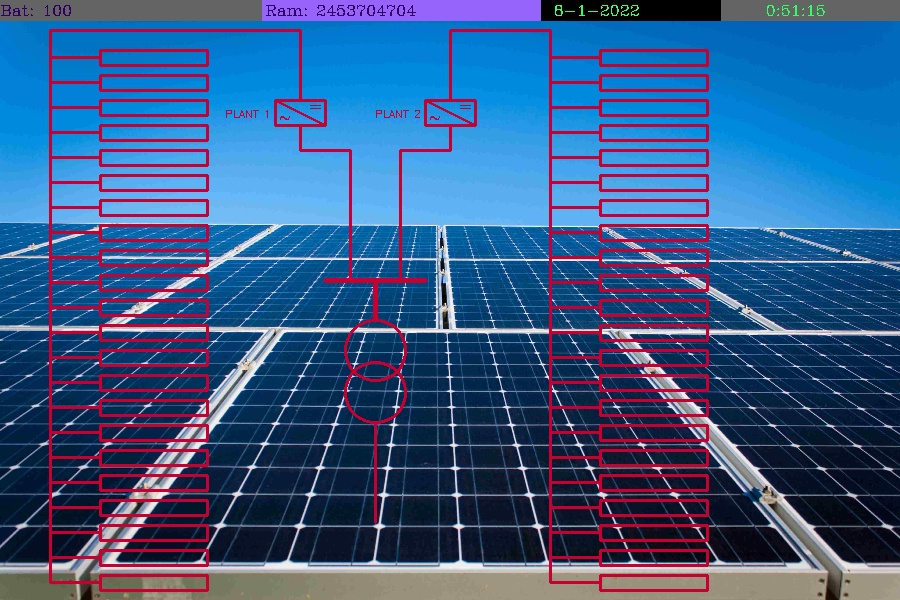
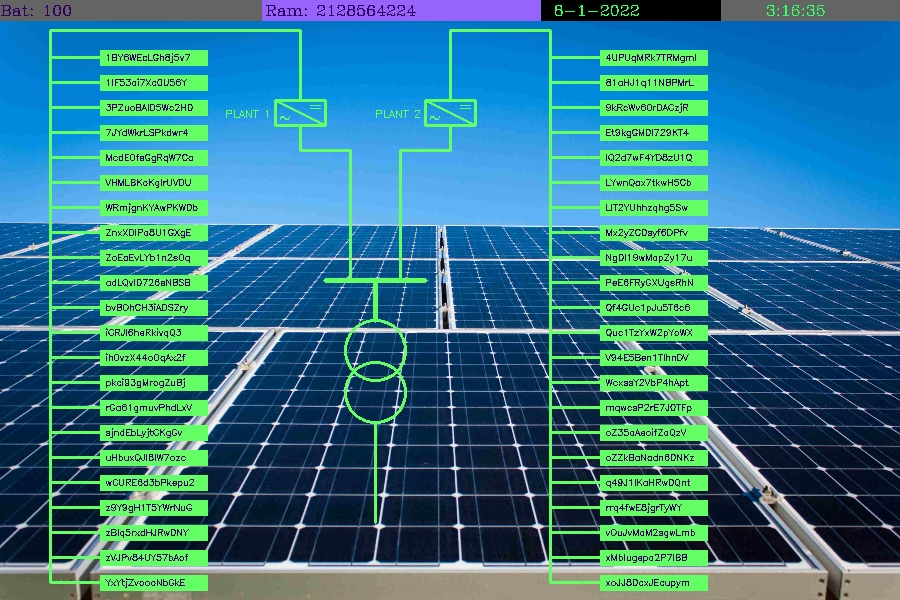
V1.2- Load Source Keys solar plant 1 and solar plant 2. Show script with source keys solar plant

diff --git a/SolarEnergyPowerPlant.py b/SolarEnergyPowerPlant.py
@@ -3,12 +3,18 @@ import numpy as np
 import pickle
 import os
 import PySimpleGUI as sg
-from Function_BN  import script,InverterAcDc,Transformer,Header
+from Function_BN  import script,InverterAcDc,Transformer,Header,sourceKey
+from SolarPlant import SolarPV
+solar=SolarPV()
+
+p1_source_key,p2_source_key=solar.main()
 
 he=Header()
 width,height=107,15
 nb=900
-colorR=(50,0,200)
+colorR=(100,255,100)
+colorB=(100,0,50)
+
 try:
     with open('Solar_Plant','rb') as f:
         posList=pickle.load(f)
@@ -29,21 +35,21 @@ def mouseClick(events,x,y,flags,params):
 auto= script()
 
 if auto==1:
-    posList=[]  
+    posList1=[]
+    posList2=[]  
     y=50
     for i in range(22):
         if i!=0:
             y=y+height+10
-        posList.append((100,y))
-        posList.append((600,y))
+        posList1.append((100,y))
+        posList2.append((600,y))
     img=cv2.imread("workspace.jpg")
     scale=img.shape[0]/img.shape[1]
     img = cv2.resize(img,(nb,int(nb*scale)))
+    
     he.leftH(image=img)
-
-    for pos in posList:
-        cv2.rectangle(img,pos,(pos[0]+width,pos[1]+height),colorR,2)
-        cv2.line(img,(pos[0],pos[1]+int(height/2)),(pos[0]-50,pos[1]+int(height/2)),colorR,2)
+    img=sourceKey(posList1,p1_source_key,img,colorR,colorB,width,height)
+    img=sourceKey(posList2,p2_source_key,img,colorR,colorB,width,height)
     Inverter=InverterAcDc(img=img,colorInv=colorR,fpoint=(275,100))
     text1="PLANT 1"
     Inverter.draw(text1)
@@ -71,9 +77,6 @@ if auto==1:
     transf.draw(img=img,point=(375,320),radius=rad,color=colorR)
     cv2.line(img,(375,int(320+(3.4*rad))),(375,int(320+(3.4*rad)+100)),colorR,2)
 
-
-
-
     Inverter.draw(text2)
     cv2.imshow("Image",img)
     while True:
@@ -94,8 +97,11 @@ else:
         if key == 27 or key==ord('q'): 
             break
 print(posList)
+print(p1_source_key)
+print(p2_source_key)
+
 folder = sg.popup_get_folder('File Name','File Search')   
 os.chdir(folder)
 cv2.imwrite("Solar_Plant.jpg", img)
-print(posList)
+
 cv2.destroyAllWindows()

diff --git a/SolarPlant.py b/SolarPlant.py
@@ -1,0 +1,41 @@
+import pandas as pd
+import numpy as np
+import matplotlib as mpl
+import matplotlib.pyplot as plt
+import seaborn as sns
+import missingno as msno
+
+class SolarPV:
+    def __init__(self):
+        self.P1_G=pd.read_csv(r"C:\Datasets-base\Datasets\Solar_power_generation_data\Plant_1_Generation_Data.csv")
+        self.P2_G=pd.read_csv(r"C:\Datasets-base\Datasets\Solar_power_generation_data\Plant_2_Generation_Data.csv")
+        self.P1_WSn=pd.read_csv(r"C:\Datasets-base\Datasets\Solar_power_generation_data\Plant_1_Weather_Sensor_Data.csv")
+        self.P2_WSn=pd.read_csv(r"C:\Datasets-base\Datasets\Solar_power_generation_data\Plant_2_Weather_Sensor_Data.csv")
+        self.Plant_df=[self.P1_G,self.P2_G,self.P1_WSn,self.P2_WSn]      #list with plant dataframes
+
+    def CheckNullValues(self,Dataset):
+        Null = Dataset.isnull().sum()
+        Na = Dataset.isna().sum()
+        if Null.sum()==0 and Na.sum()==0:
+            return 1
+        else:
+            return 0 
+    
+
+    
+    def main(self):
+        for idx, df in enumerate(self.Plant_df):
+            ctrl_NA=self.CheckNullValues(df) 
+            if ctrl_NA==0:
+                print('........Valores invalidos......')
+            if idx==0:
+                df['DATE_TIME']=pd.to_datetime(df['DATE_TIME'], format='%d-%m-%Y %H:%M')
+            else:
+                df['DATE_TIME']=pd.to_datetime(df['DATE_TIME'], format='%Y-%m-%d %H:%M:%S')
+            df.sort_values(by=['DATE_TIME'])    #ordenar dados
+        source_key_p1=self.Plant_df[0]['SOURCE_KEY'].unique()
+        source_key_p2=self.Plant_df[1]['SOURCE_KEY'].unique()
+        return source_key_p1, source_key_p2
+    
+ 
+    

diff --git a/Function_BN.py b/Function_BN.py
@@ -4,8 +4,6 @@ import datetime
 import pytz
 import psutil
 
-
-
 def script():
     sg.theme('DarkGrey7')
     menu_def = [['&File', ['E&xit',]],
@@ -24,6 +22,13 @@ def script():
         elif values['-auto-']== True:
             auto=1 
     return auto
+
+def sourceKey(posList,source_key,img,colorR,colorB,width,height):
+    for idx,pos in enumerate(posList):
+        cv2.rectangle(img,pos,(pos[0]+width,pos[1]+height),colorR,cv2.FILLED)
+        cv2.line(img,(pos[0],pos[1]+int(height/2)),(pos[0]-50,pos[1]+int(height/2)),colorR,2)
+        cv2.putText(img,source_key[idx],(pos[0]+5,pos[1]+height-5),cv2.FONT_HERSHEY_SIMPLEX,0.3,colorB,1)
+    return img
 
 class InverterAcDc():
     def __init__(self,img,fpoint,colorInv=(50,0,200)):

diff --git a/SolarEnergyPowerPlantReadme.md b/SolarEnergyPowerPlantReadme.md
@@ -1,3 +1,4 @@
 Create a Solar Power Plant 
 V.1-Design the diagram
 V1.1- Esquematic in plant: PV, Lines, HV Transformer
+V1.2- Load Source Keys solar plant 1 and solar plant 2. Show script with source keys solar plant 
